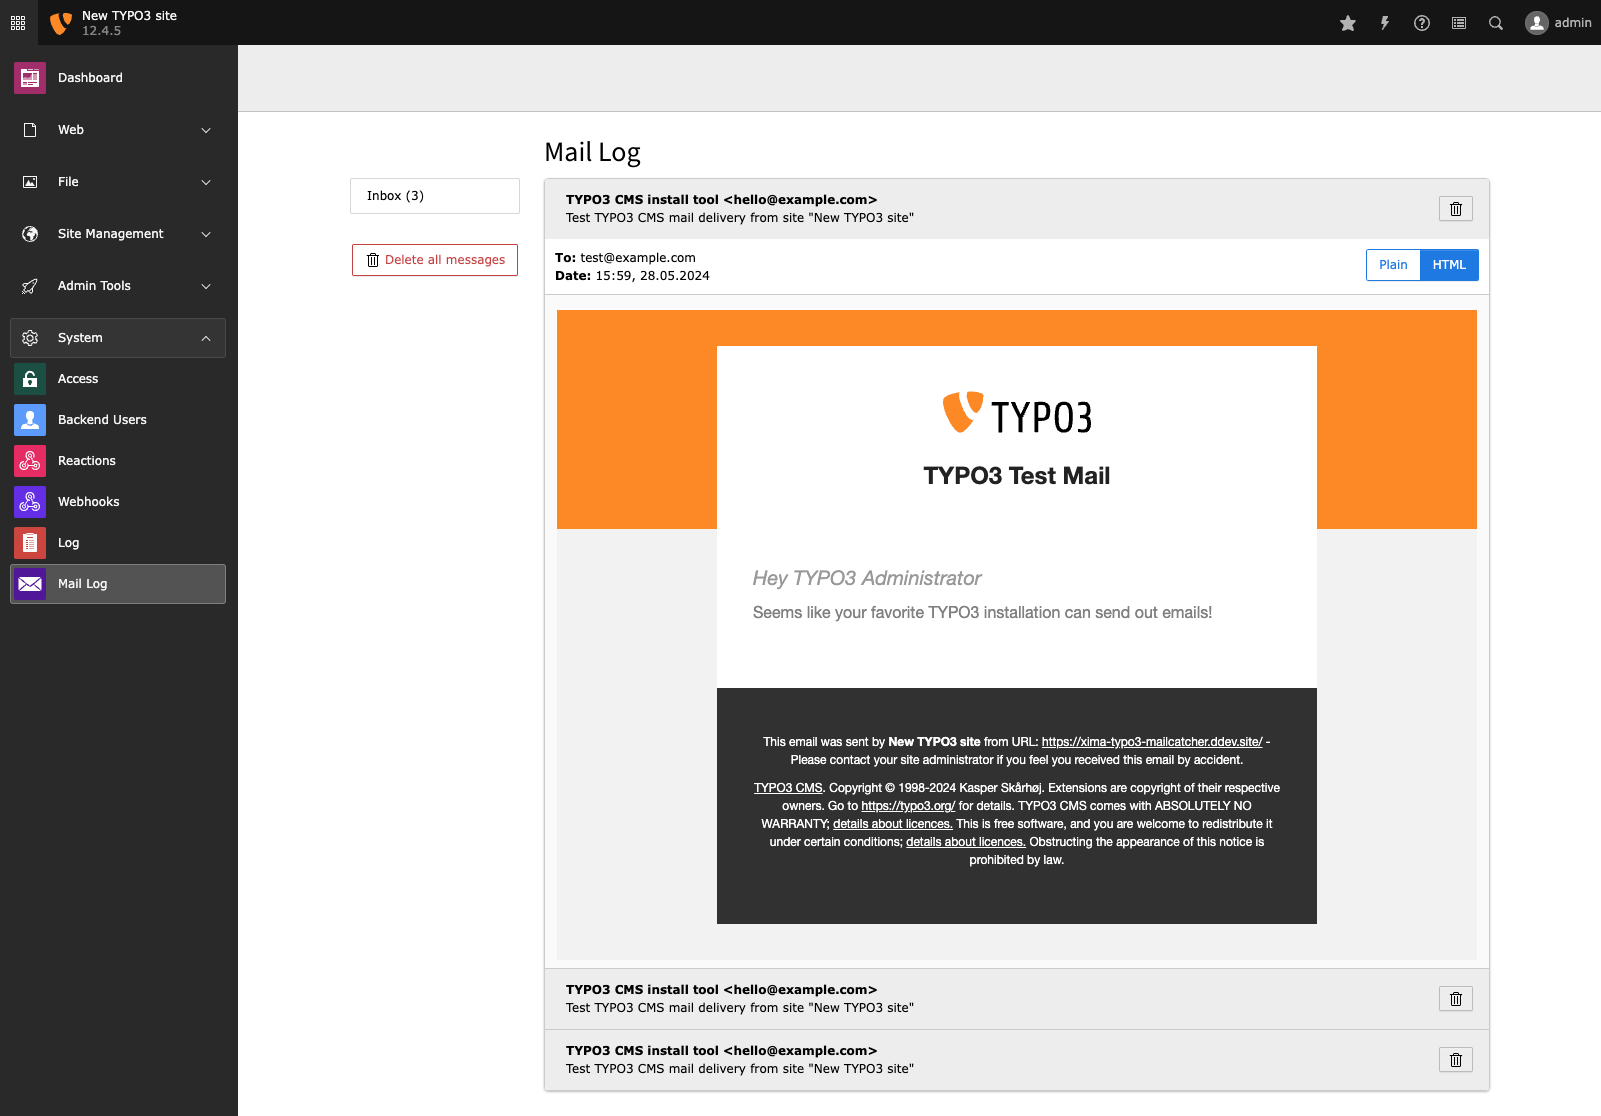
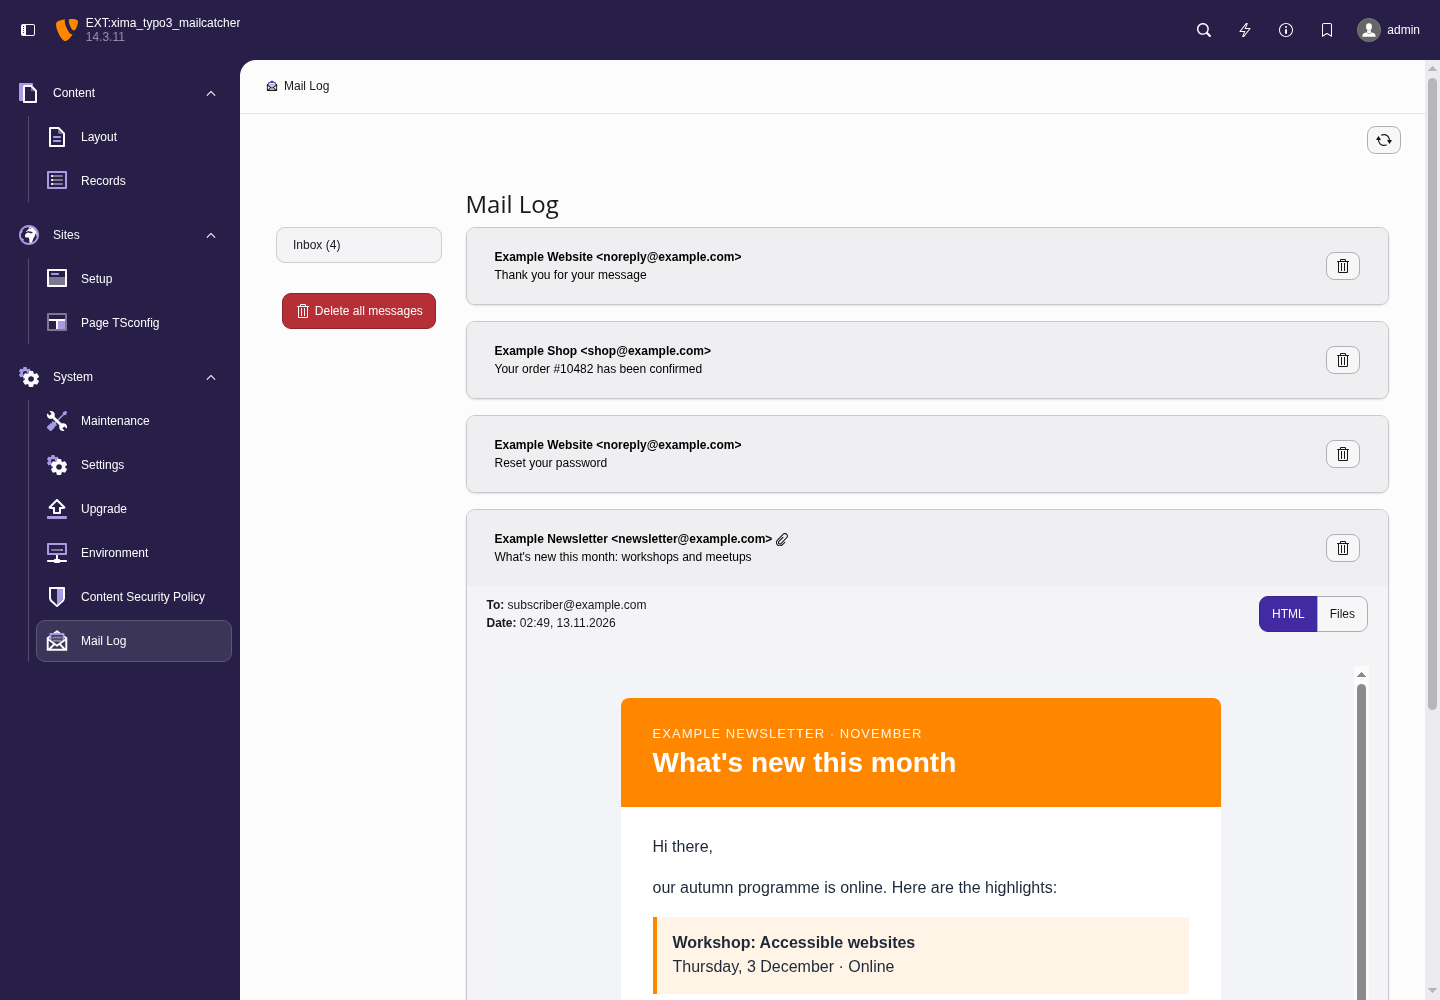
docs: update README and backend module screenshot for TYPO3 v14 (#51)

diff --git a/README.md b/README.md
@@ -11,32 +11,78 @@
 [![codecov](https://codecov.io/gh/xima-media/xima-typo3-mailcatcher/graph/badge.svg?token=VUMQ5EUG02)](https://codecov.io/gh/xima-media/xima-typo3-mailcatcher)
 ![Composer](https://typo3-badges.dev/badge/xima_typo3_mailcatcher/composer/shields.svg)
 
-
 </div>
 
-A TYPO3 extension that adds a backend module to view emails that were send to
-file.
+A TYPO3 extension that adds a backend module to view emails that were sent to
+file. With the `mbox` mail transport, TYPO3 writes outgoing emails to a log file
+instead of sending them. This extension reads that file and shows the emails in
+the backend, which is handy on development and staging systems.
 
-![backend_module](Documentation/example_backend_module.png)
+![Backend module "Mail Log" on TYPO3 v14](Documentation/example_backend_module.png)
+
+## Features
+
+* Backend module **System → Mail Log**, available as soon as the `mbox`
+  transport is active
+* List of all caught emails, newest first, with sender, subject and an
+  attachment indicator
+* Detail view with recipient, Cc and date
+* Switch between the plain text and the HTML version; HTML is rendered in an
+  iframe, inline (`cid:`) images are resolved
+* Download attachments
+* Delete single emails or all at once
+
+## Requirements
+
+* TYPO3 12.4, 13.4 or 14.3
+* PHP 8.1+
 
 ## Installation
 
-```
+```bash
 composer require xima/xima-typo3-mailcatcher
 ```
+
+Or download the extension from the
+[TYPO3 Extension Repository (TER)](https://extensions.typo3.org/extension/xima_typo3_mailcatcher).
 
 ## Configuration
 
 No extension configuration needed!
 
-To prevent TYPO3 from sending emails, change the mail transport to `mbox` (see
-official [TYPO3 Mail-API](https://docs.typo3.org/m/typo3/reference-coreapi/main/en-us/ApiOverview/Mail/Index.html#mbox)).
-This way TYPO3 writes the outgoing emails to a log file that you can specify
-via `transport_mbox_file`. The path musst be absolute.
+Change the mail transport to `mbox` (see the official
+[TYPO3 Mail API](https://docs.typo3.org/m/typo3/reference-coreapi/main/en-us/ApiOverview/Mail/Index.html#mbox)),
+e.g. in `config/system/additional.php`. TYPO3 then writes outgoing emails to
+the file set in `transport_mbox_file`. The path must be absolute.
 
 ```php
 $GLOBALS['TYPO3_CONF_VARS']['MAIL']['transport'] = 'mbox';
 $GLOBALS['TYPO3_CONF_VARS']['MAIL']['transport_mbox_file'] = \TYPO3\CMS\Core\Core\Environment::getVarPath() . '/log/mail.log';
+```
+
+When the module is opened, it moves the emails from the log file to
+`public/typo3temp/assets/xima_typo3_mailcatcher/`: one JSON file per email
+(addresses, subject and full body) plus its attachments. Anyone who can reach
+this directory over HTTP can read them.
+
+## Development
+
+The repository ships a [DDEV](https://ddev.com) setup. `ddev init-typo3` sets up
+a TYPO3 instance with the `mbox` transport (backend login `admin` / `Passw0rd!`):
+
+```bash
+ddev start
+ddev composer install
+ddev init-typo3
+```
+
+Run the checks and tests:
+
+```bash
+ddev composer ci:sca
+ddev composer test:unit
+ddev composer test:functional
+ddev playwright test
 ```
 
 ## License
